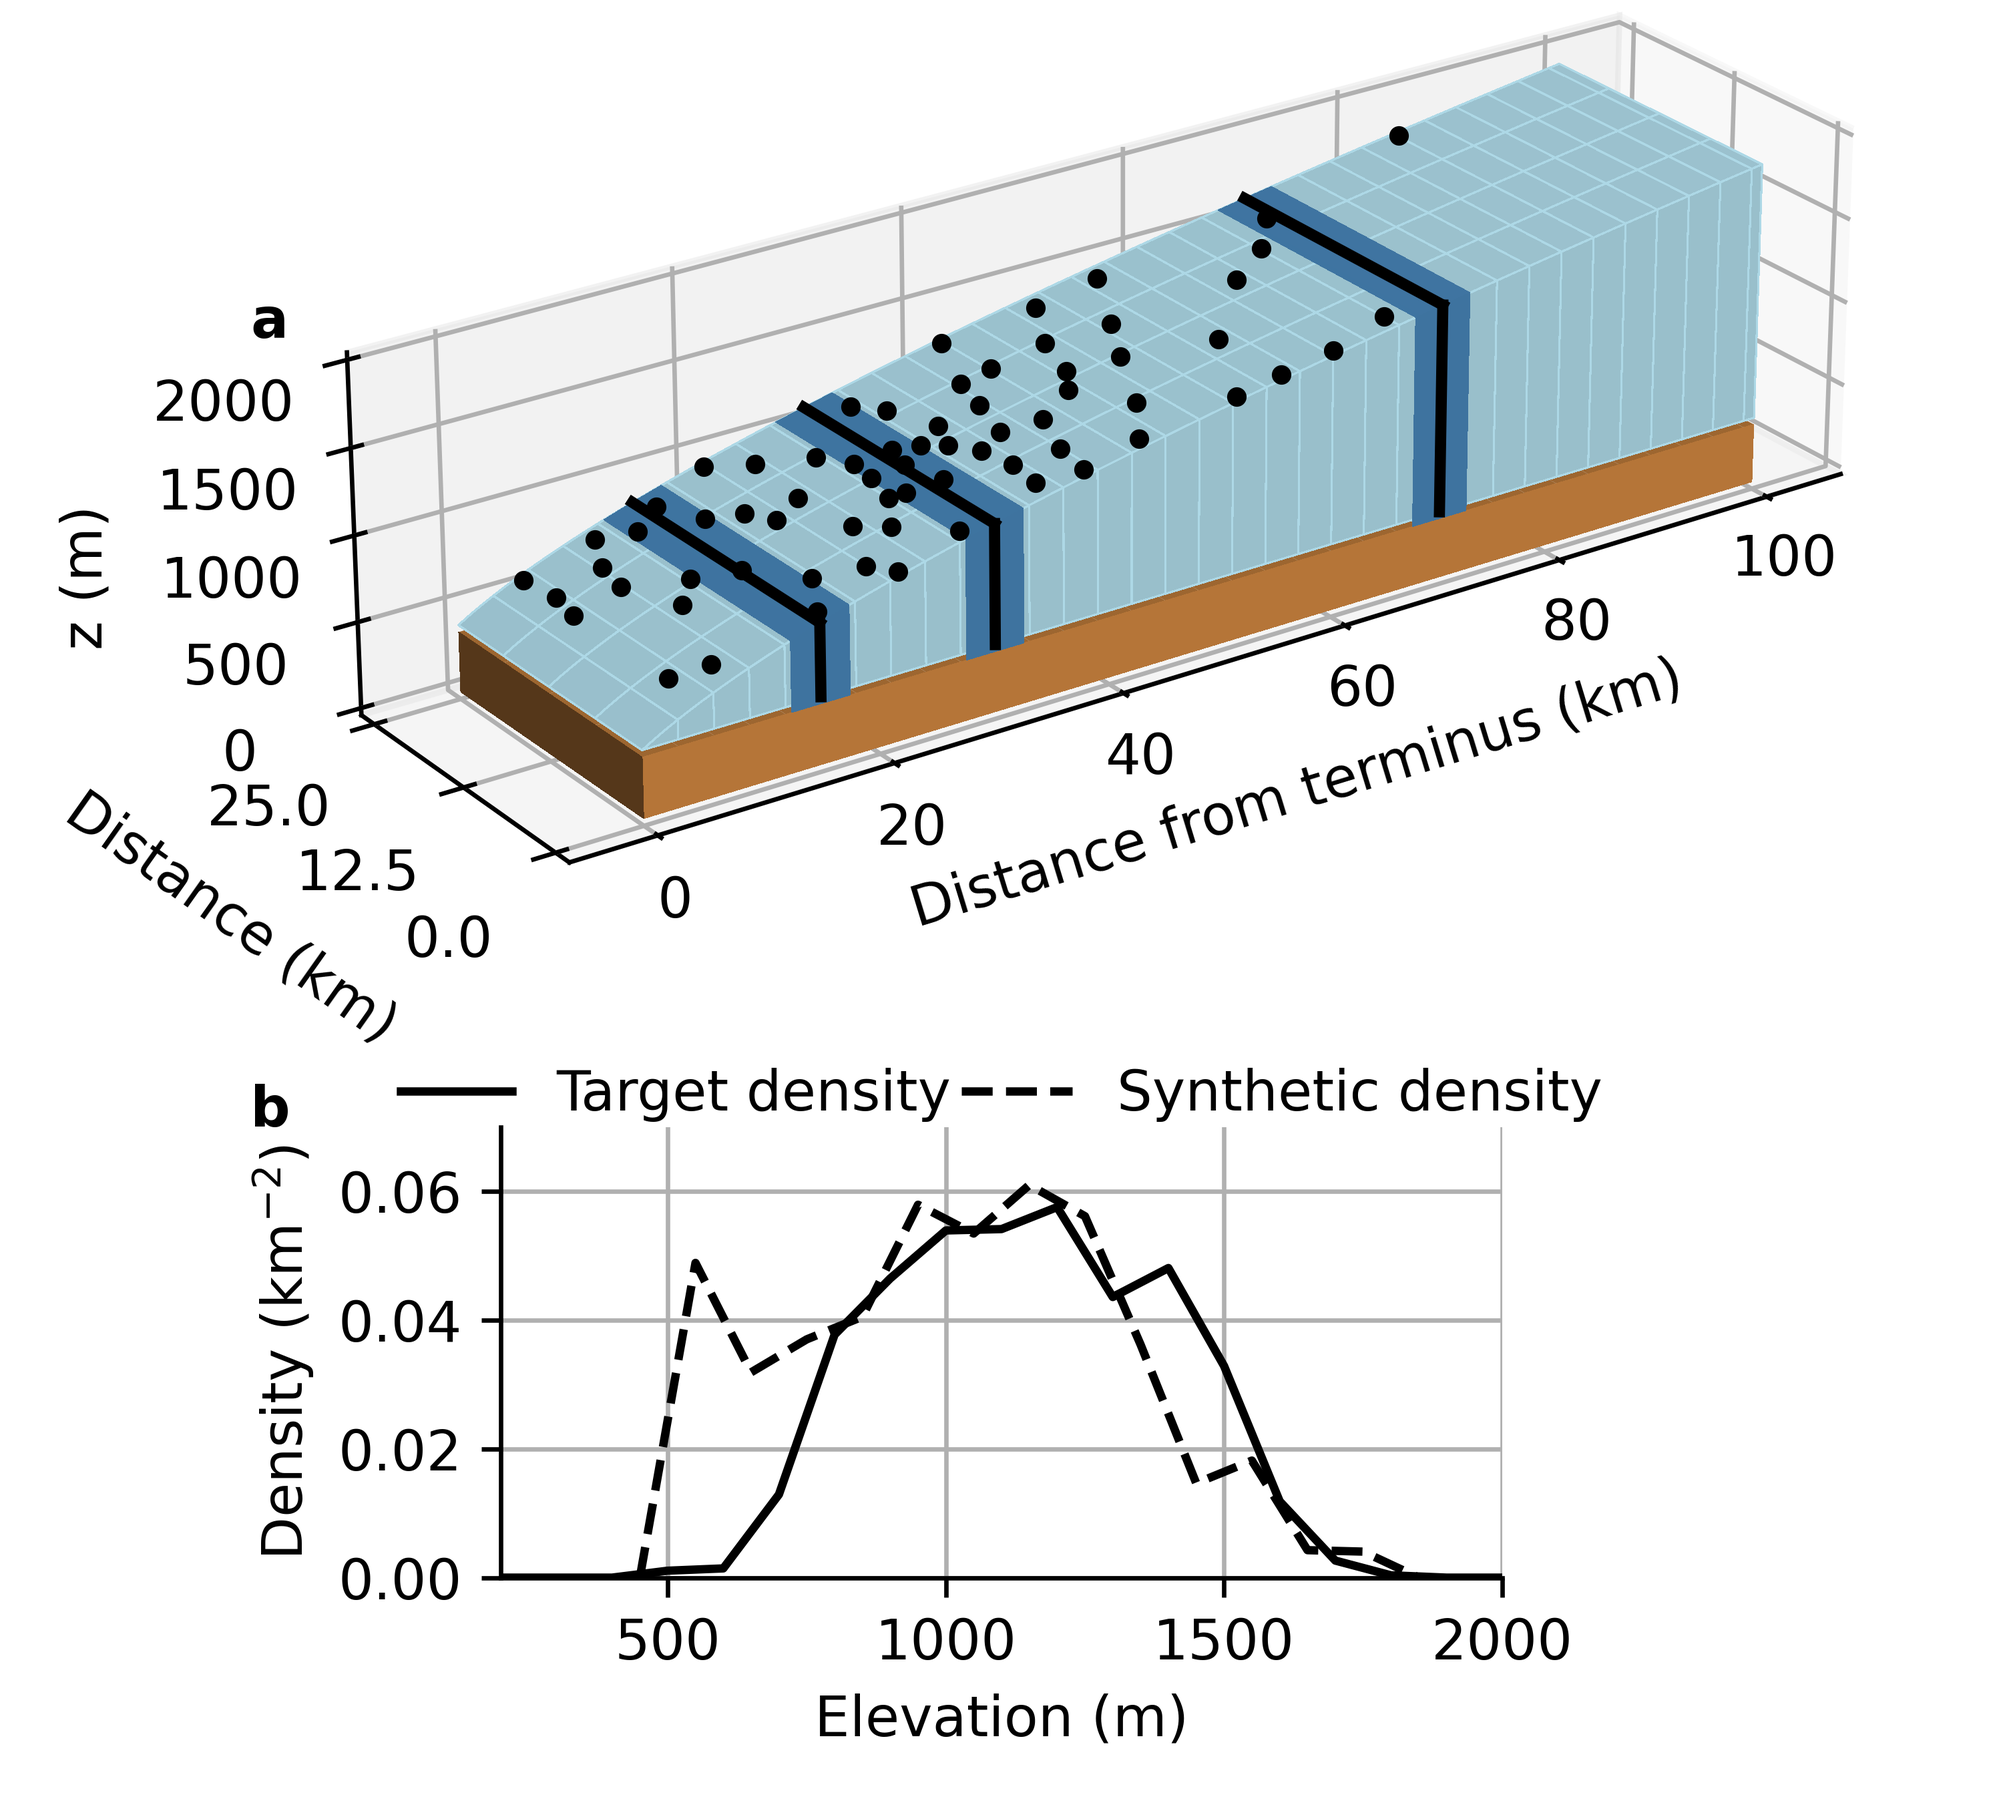
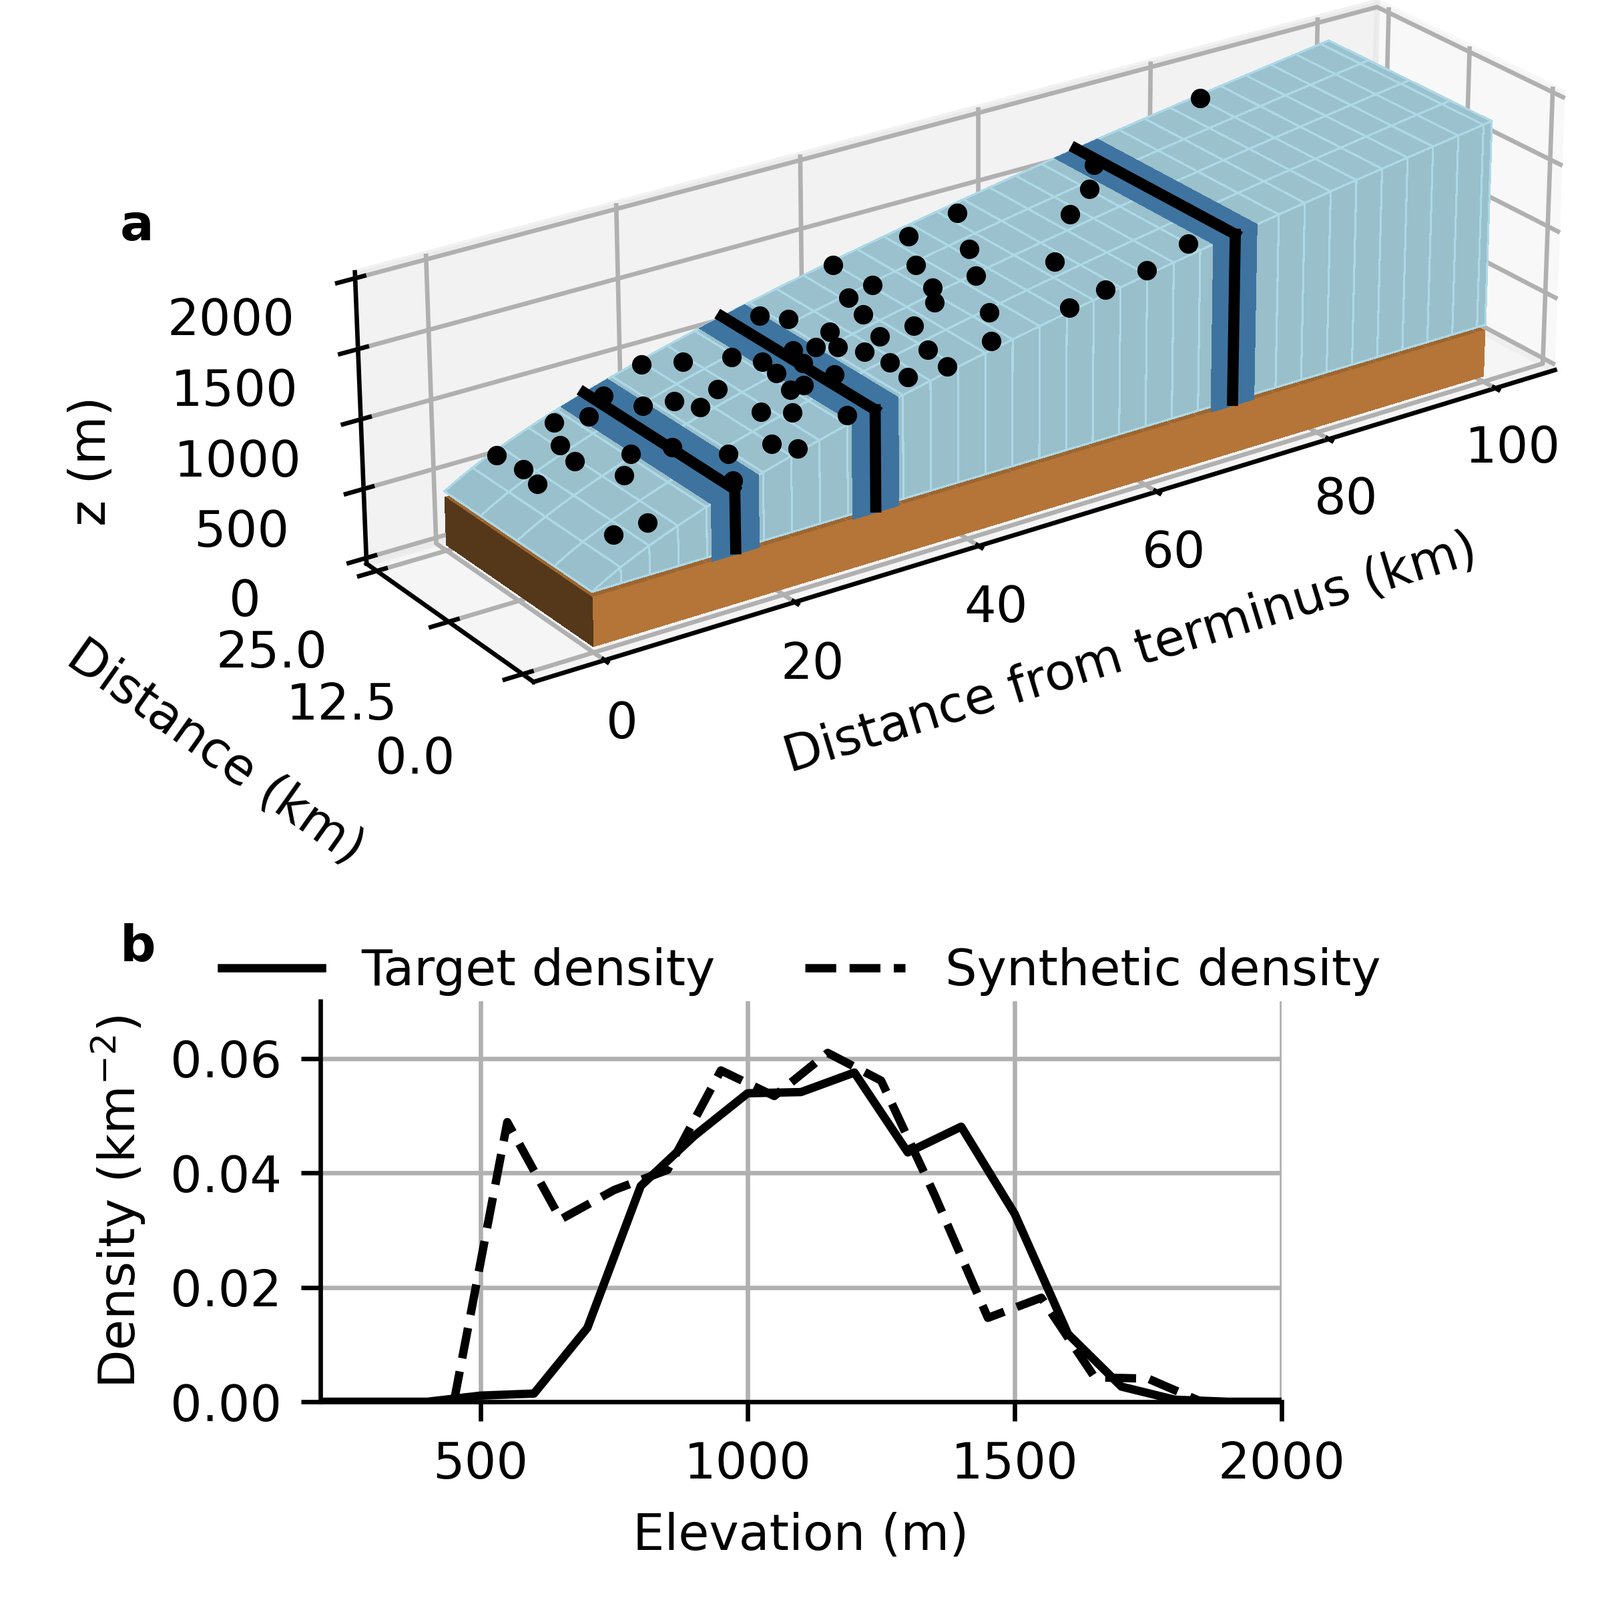
Figure widths and font sizes

diff --git a/analysis/plot_bed_ice_profiles.py b/analysis/plot_bed_ice_profiles.py
@@ -7,6 +7,8 @@ Plot bed and ice surface elevation profiles
 import numpy as np
 import netCDF4 as nc
 from matplotlib import pyplot as plt
+plt.rc('font', size=9) 
+
 import matplotlib.colors as mcolors
 from mpl_toolkits.mplot3d import Axes3D
 from matplotlib.transforms import Bbox
@@ -17,7 +19,8 @@ from mpl_toolkits.mplot3d.art3d import Poly3DCollection
 bed_fun = lambda x: 350 + 0*x
 surf_fun = lambda x: 6*(np.sqrt(x  +5e3) - np.sqrt(5e3)) + 390
 
-prefix = '/home/tghill/projects/def-gflowers/tghill/laminar-turbulent/'
+# prefix = '/home/tghill/projects/def-gflowers/tghill/laminar-turbulent/'
+prefix = '/home/user1/SFU-code/laminar-turbulent/'
 
 # Graphics
 # ice_color = 'lightcyan'
@@ -28,7 +31,7 @@ line_color = 'k'
 # band_color = 'lightslategrey'
 band_color = 'steelblue'
 figname = 'figures/main/domain_profile.png'
-figsize=(5, 4.5)
+figsize=(4, 4)
 
 bands = [15, 30, 70]
 band_width = 5
@@ -111,7 +114,7 @@ ax.view_init(elev=24, azim=-125) #Works!
 ax.set_box_aspect((4, 1, 1))
 ax.set_aspect('equalxy')
 
-ax.set_position(Bbox.from_extents(0.1, 0.315, 1., 1.2))
+ax.set_position(Bbox.from_extents(0.2, 0.375, 1., 1.2))
 # ax.text(0.05, 0.95, 'a', fontweight='bold')
 
 ## Compute moulin density
@@ -132,17 +135,21 @@ yang_2016_density = np.loadtxt(prefix + 'glads/data/yang2016_moulins/yang2016_de
 
 z_bin_center = 0.5*(z_bins[:-1] + z_bins[1:])
 ax2 = fig.add_subplot()
-ax2.set_position(Bbox.from_bounds(0.25, 0.125, 0.5, 0.25))
+ax2.set_position(Bbox.from_bounds(0.2, 0.125, 0.6, 0.25))
 ax2.plot(yang_2016_density[:, 0], yang_2016_density[:, 1], label='Target density', color='k')
 ax2.plot(z_bin_center, density_bins, label='Synthetic density', color='k', linestyle='dashed')
 ax2.spines['right'].set_visible(False)
 ax2.spines['top'].set_visible(False)
 ax2.set_xlim([200, 2000])
 ax2.set_ylim([0, 0.07])
-ax2.text(-0.25, 2.75, 'a', transform=ax2.transAxes, fontweight='bold')
-ax2.text(-0.25, 1, 'b', transform=ax2.transAxes, fontweight='bold')
+# ax2.text(-0.25, 2.75, 'a', transform=ax2.transAxes, fontweight='bold')
+# ax2.text(-0.25, 1, 'b', transform=ax2.transAxes, fontweight='bold')
 
-ax2.legend(bbox_to_anchor=(-0.15, 0.9, 1.3, 0.2), ncol=2, mode='expand', frameon=False)
+fig.text(0.075, 0.85, 'a', fontweight='bold')
+fig.text(0.075, 0.4, 'b', fontweight='bold')
+
+ax2.legend(bbox_to_anchor=(-0.15, 0.9, 1.3, 0.2), 
+    ncol=2, mode='expand', frameon=False, fontsize=9)
 
 ax2.set_xlabel('Elevation (m)')
 ax2.set_ylabel(r'Density (km$^{-2}$)')

diff --git a/analysis/plot_mechanisms.py b/analysis/plot_mechanisms.py
@@ -8,6 +8,7 @@ import numpy as np
 import netCDF4 as nc
 
 from matplotlib import pyplot as plt
+plt.rc('font', size=9) 
 from matplotlib.gridspec import GridSpec
 
 from scipy import interpolate
@@ -15,7 +16,7 @@ from scipy import interpolate
 import defaults
 from helpers import weighted_width_average
 
-figsize=(6, 6)
+figsize=(7, 6)
 
 def plot_mechanisms(fnames, figname, models, tslice=defaults.tslice, 
     x_band=defaults.x_bands[1], band_width=defaults.band_width, 
@@ -262,7 +263,7 @@ def plot_mechanisms(fnames, figname, models, tslice=defaults.tslice,
     ax1 = axs[0, 0]
     # ax1.plot([-1, 0], [-1, 0], color='k')
     ax1.legend(labels=labels, bbox_to_anchor=[0., 1, 2, 0.2], ncol=3,
-        loc='lower center', frameon=False, mode='expand')
+        loc='lower center', frameon=False, mode='expand', fontsize=8)
 
     
     axs[-1, 0].set_xlabel('x (km)')

diff --git a/analysis/plot_Re_spacetime.py b/analysis/plot_Re_spacetime.py
@@ -4,6 +4,7 @@ Plot Reynolds number profiles
 
 import numpy as np
 from matplotlib import pyplot as plt
+plt.rc('font', size=9) 
 from matplotlib import gridspec
 import netCDF4 as nc
 
@@ -97,7 +98,7 @@ def main(fnames, figname, figsize=figsize,
         ax.text(0.05, 0.95, alphabet[ii], fontweight='bold', transform=ax.transAxes,
             va='top', ha='left')
         ax.text(0.95, 0.95, labels[ii], transform=ax.transAxes,
-            va='top', ha='right')
+            va='top', ha='right', fontsize=8)
 
     cax1 = fig.add_subplot(cax_gs[1])
     cb = fig.colorbar(pc, cax=cax1, orientation='horizontal')

diff --git a/analysis/plot_synthetic_moulins.py b/analysis/plot_synthetic_moulins.py
@@ -6,6 +6,7 @@ Plot image-derived moulin locations and synthetic design
 
 import numpy as np
 from matplotlib import pyplot as plt
+plt.rc('font', size=9) 
 from matplotlib import gridspec
 from matplotlib import tri
 from scipy import interpolate

diff --git a/analysis/plot_steady.py b/analysis/plot_steady.py
@@ -6,6 +6,7 @@ Plot steady floatation fraction maps and Re
 
 import numpy as np
 from matplotlib import pyplot as plt
+plt.rc('font', size=9) 
 from matplotlib import gridspec
 from matplotlib.tri import Triangulation
 import netCDF4 as nc

diff --git a/analysis/plot_pressure_maps_separate_timeseries.py b/analysis/plot_pressure_maps_separate_timeseries.py
@@ -9,6 +9,7 @@ this can be called from external scripts
 
 import numpy as np
 from matplotlib import pyplot as plt
+plt.rc('font', size=9) 
 from matplotlib import gridspec
 from matplotlib.tri import Triangulation
 import netCDF4 as nc

diff --git a/analysis/transition_activation.py b/analysis/transition_activation.py
@@ -7,6 +7,7 @@ Plot relative size of each term in the transition parameterization
 import numpy as np
 import netCDF4 as nc
 from matplotlib import pyplot as plt
+plt.rc('font', size=9) 
 from matplotlib import gridspec
 
 import cmocean

diff --git a/analysis/plot_issm.py b/analysis/plot_issm.py
@@ -4,6 +4,7 @@ Compare ISSM and MATLAB model flotation fraction and channel area
 
 import numpy as np
 from matplotlib import pyplot as plt
+plt.rc('font', size=9) 
 from matplotlib.gridspec import GridSpec
 import netCDF4 as nc
 

diff --git a/analysis/compare_basalmelt.py b/analysis/compare_basalmelt.py
@@ -6,6 +6,7 @@ Compare seasonal simulations for basal melt rate
 
 import numpy as np
 from matplotlib import pyplot as plt
+plt.rc('font', size=9) 
 from matplotlib import gridspec
 import netCDF4 as nc
 import scipy.interpolate

diff --git a/analysis/plot_moody_scatter.py b/analysis/plot_moody_scatter.py
@@ -10,6 +10,7 @@ from scipy.optimize import newton
 from scipy import interpolate
 
 from matplotlib import pyplot as plt
+plt.rc('font', size=9) 
 from matplotlib import ticker
 import netCDF4 as nc
 

diff --git a/analysis/mesh_refinement.py b/analysis/mesh_refinement.py
@@ -8,6 +8,7 @@ import numpy as np
 import netCDF4 as nc
 
 from matplotlib import pyplot as plt
+plt.rc('font', size=9) 
 
 def plot_mesh_refinement(fnames, figname, figsize=(6, 4)):
 

diff --git a/analysis/plot_flux_params.py b/analysis/plot_flux_params.py
@@ -6,6 +6,7 @@ Simple plot of flux parameterizations
 
 import numpy as np
 from matplotlib import pyplot as plt
+plt.rc('font', size=9) 
 
 from defaults import colors
 
